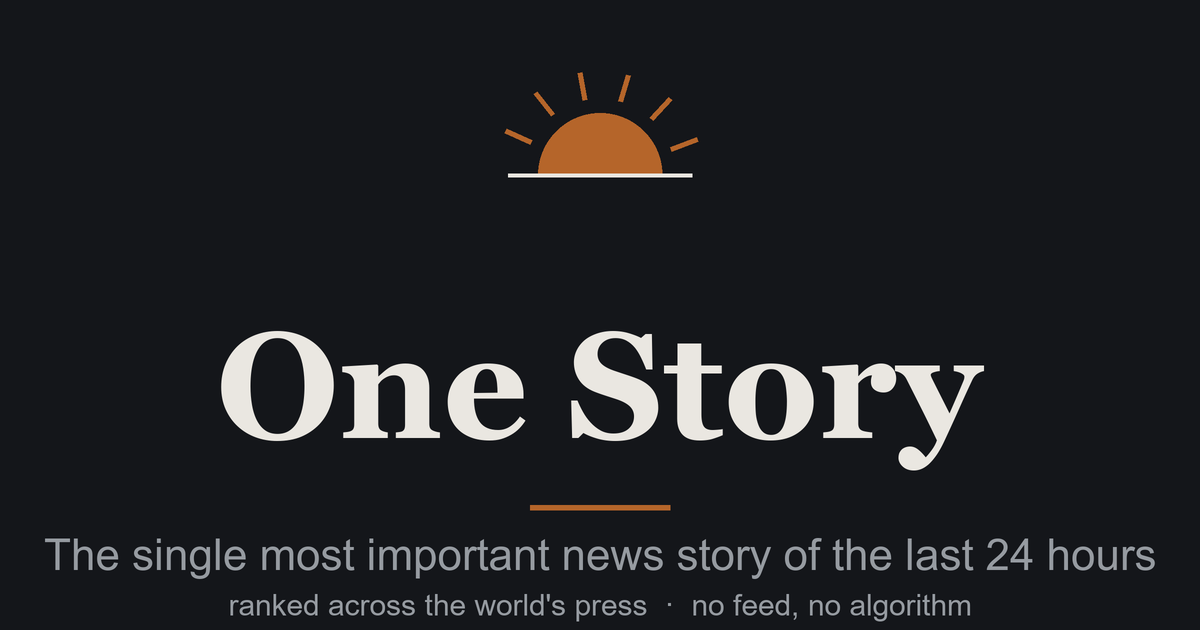
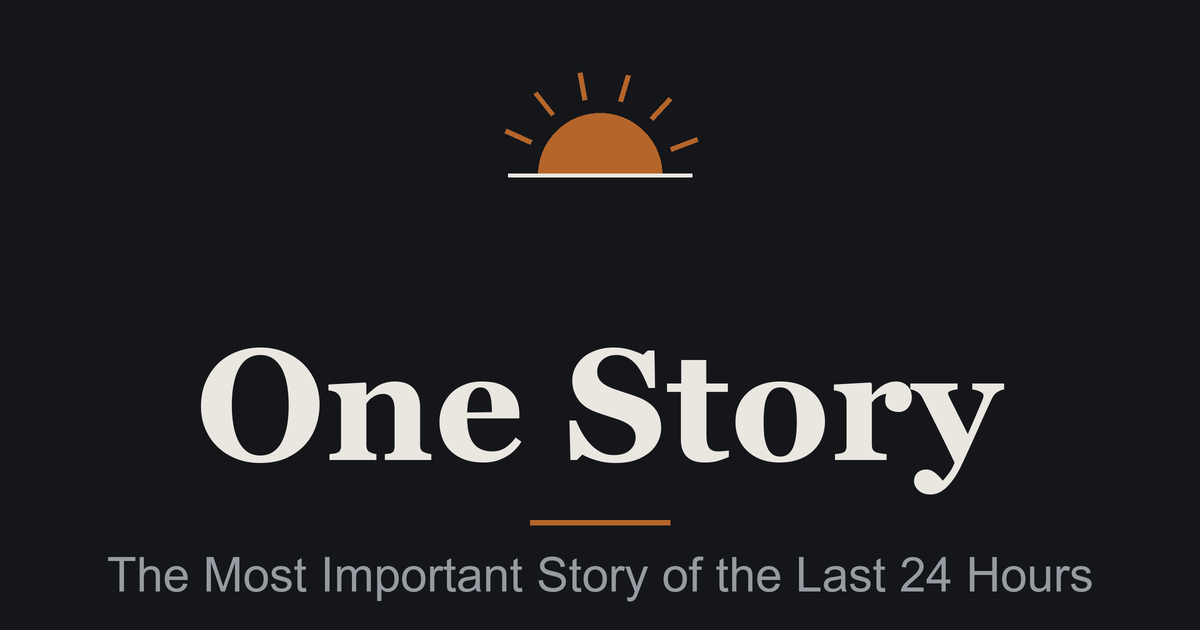
OG card: drop tail line, snappier title-case byline; align kicker + description

Changed region(s): [[0.1542, 0.5127, 0.8325, 0.7841], [0.0308, 0.7841, 0.9867, 0.9952]]

diff --git a/index.html b/index.html
@@ -12,7 +12,7 @@
 <meta property="og:site_name" content="One Story">
 <meta property="og:url" content="https://the-one-story.github.io/">
 <meta property="og:title" content="One Story">
-<meta property="og:description" content="The single most important news story of the last 24 hours - ranked deterministically across the world's press. No feed, no scroll.">
+<meta property="og:description" content="The most important story of the last 24 hours.">
 <meta property="og:image" content="https://the-one-story.github.io/assets/og.png">
 <meta property="og:image:secure_url" content="https://the-one-story.github.io/assets/og.png">
 <meta property="og:image:type" content="image/png">
@@ -167,8 +167,8 @@
 <body>
   <div class="wrap">
     
-    <p class="kicker"><b>One Story</b> &nbsp;&middot;&nbsp; the single most
-       important story of the last 24 hours</p>
+    <p class="kicker"><b>One Story</b> &nbsp;&middot;&nbsp; the most important
+       story of the last 24 hours</p>
     <h1>Tankers make sharp U-turns after Houthi shipping threat</h1>
     <p class="lede">All of the ships were travelling to or from Saudi ports before changing course, ship-tracking data shows.</p>
     <a class="hero" href="https://www.bbc.co.uk/news/articles/cn0n127lpzgo?at_medium=RSS&amp;at_campaign=rss" target="_blank" rel="noopener">
@@ -200,11 +200,11 @@
         <ul class="comp"><li><div class="chead"><span class="cname">coverage</span><span class="cscore">0.97</span></div><p class="cdesc">How many distinct outlets are running the story — log-scaled, so 20 isn't worth twice 10.</p></li><li><div class="chead"><span class="cname">diversity</span><span class="cscore">0.65</span></div><p class="cdesc">How widely that coverage is spread across countries and the political spectrum — weighted heaviest, to beat a story merely loud in one bloc.</p></li><li><div class="chead"><span class="cname">recency</span><span class="cscore">0.59</span></div><p class="cdesc">Favours coverage that is still building now over a story already fading.</p></li><li><div class="chead"><span class="cname">novelty</span><span class="cscore">1.00</span></div><p class="cdesc">Penalises a story that already led on a recent day, easing back over ~4 days, so a repeat must bring bigger coverage to win again.</p></li></ul>
         
         <h3>Today's runners-up</h3>
-        <ol class="runners"><li><a href='https://www.france24.com/en/middle-east/20260722-us-announce-landmark-deal-allowing-saudis-enrich-nuclear-fuel-reports-say' target='_blank' rel='noopener'>US announces landmark deal allowing Saudis to enrich nuclear fuel</a><span class='ru-meta'>France 24 &middot; score 0.316 &middot; 14 outlets, 10 countries, 3 leans</span></li><li><a href='https://www.france24.com/en/gaza-mamdani-urges-government-to-arrest-netanyahu-if-he-visits-us' target='_blank' rel='noopener'>#Gaza: #Mamdani urges government to arrest #Netanyahu if he visits #US</a><span class='ru-meta'>France 24 &middot; score 0.166 &middot; 10 outlets, 6 countries, 4 leans</span></li><li><a href='https://www.france24.com/en/europe/20260723-wildfires-ravage-spain-france-and-italy-killing-three-firefighters' target='_blank' rel='noopener'>Wildfires ravage Spain, France and Italy, killing three firefighters</a><span class='ru-meta'>France 24 &middot; score 0.103 &middot; 6 outlets, 5 countries, 2 leans</span></li><li><a href='https://www.dw.com/en/police-station-opens-in-hitler-s-birth-house/a-78039537?maca=en-rss-en-all-1573-rdf' target='_blank' rel='noopener'>Police station opens in Hitler&#x27;s birth house</a><span class='ru-meta'>Deutsche Welle &middot; score 0.081 &middot; 7 outlets, 5 countries, 2 leans</span></li><li><a href='https://www.france24.com/en/middle-east/20260722-trump-threatens-iranian-infrastructure-over-strait-of-hormuz-attacks' target='_blank' rel='noopener'>Trump threatens Iranian infrastructure over Strait of Hormuz attacks</a><span class='ru-meta'>France 24 &middot; score 0.080 &middot; 6 outlets, 5 countries, 2 leans</span></li></ol>
+        <ol class="runners"><li><a href='https://www.france24.com/en/middle-east/20260722-us-announce-landmark-deal-allowing-saudis-enrich-nuclear-fuel-reports-say' target='_blank' rel='noopener'>US announces landmark deal allowing Saudis to enrich nuclear fuel</a><span class='ru-meta'>France 24 &middot; score 0.314 &middot; 14 outlets, 10 countries, 3 leans</span></li><li><a href='https://www.france24.com/en/gaza-mamdani-urges-government-to-arrest-netanyahu-if-he-visits-us' target='_blank' rel='noopener'>#Gaza: #Mamdani urges government to arrest #Netanyahu if he visits #US</a><span class='ru-meta'>France 24 &middot; score 0.165 &middot; 9 outlets, 6 countries, 4 leans</span></li><li><a href='https://www.france24.com/en/europe/20260723-wildfires-ravage-spain-france-and-italy-killing-three-firefighters' target='_blank' rel='noopener'>Wildfires ravage Spain, France and Italy, killing three firefighters</a><span class='ru-meta'>France 24 &middot; score 0.103 &middot; 6 outlets, 5 countries, 2 leans</span></li><li><a href='https://www.dw.com/en/police-station-opens-in-hitler-s-birth-house/a-78039537?maca=en-rss-en-all-1573-rdf' target='_blank' rel='noopener'>Police station opens in Hitler&#x27;s birth house</a><span class='ru-meta'>Deutsche Welle &middot; score 0.080 &middot; 7 outlets, 5 countries, 2 leans</span></li><li><a href='https://www.france24.com/en/middle-east/20260722-trump-threatens-iranian-infrastructure-over-strait-of-hormuz-attacks' target='_blank' rel='noopener'>Trump threatens Iranian infrastructure over Strait of Hormuz attacks</a><span class='ru-meta'>France 24 &middot; score 0.079 &middot; 6 outlets, 5 countries, 2 leans</span></li></ol>
       </div>
     </details>
     <footer>
-      Updated 23/07/2026 15:42 AEST.<br>Next update: Fri 24 Jul, 06:00 AEST.
+      Updated 23/07/2026 15:48 AEST.<br>Next update: Fri 24 Jul, 06:00 AEST.
     </footer>
   </div>
 </body>

diff --git a/render.py b/render.py
@@ -293,7 +293,7 @@ def render_html(ranked: dict, stale: bool = False) -> str:
 <meta property="og:site_name" content="One Story">
 <meta property="og:url" content="https://the-one-story.github.io/">
 <meta property="og:title" content="One Story">
-<meta property="og:description" content="The single most important news story of the last 24 hours - ranked deterministically across the world's press. No feed, no scroll.">
+<meta property="og:description" content="The most important story of the last 24 hours.">
 <meta property="og:image" content="https://the-one-story.github.io/assets/og.png">
 <meta property="og:image:secure_url" content="https://the-one-story.github.io/assets/og.png">
 <meta property="og:image:type" content="image/png">
@@ -448,8 +448,8 @@ def render_html(ranked: dict, stale: bool = False) -> str:
 <body>
   <div class="wrap">
     {stale_banner}
-    <p class="kicker"><b>One Story</b> &nbsp;&middot;&nbsp; the single most
-       important story of the last {ranked['window_hours']} hours</p>
+    <p class="kicker"><b>One Story</b> &nbsp;&middot;&nbsp; the most important
+       story of the last {ranked['window_hours']} hours</p>
     <h1>{headline}</h1>
     {snippet_html}
     <a class="hero" href="{hero_url}" target="_blank" rel="noopener">
